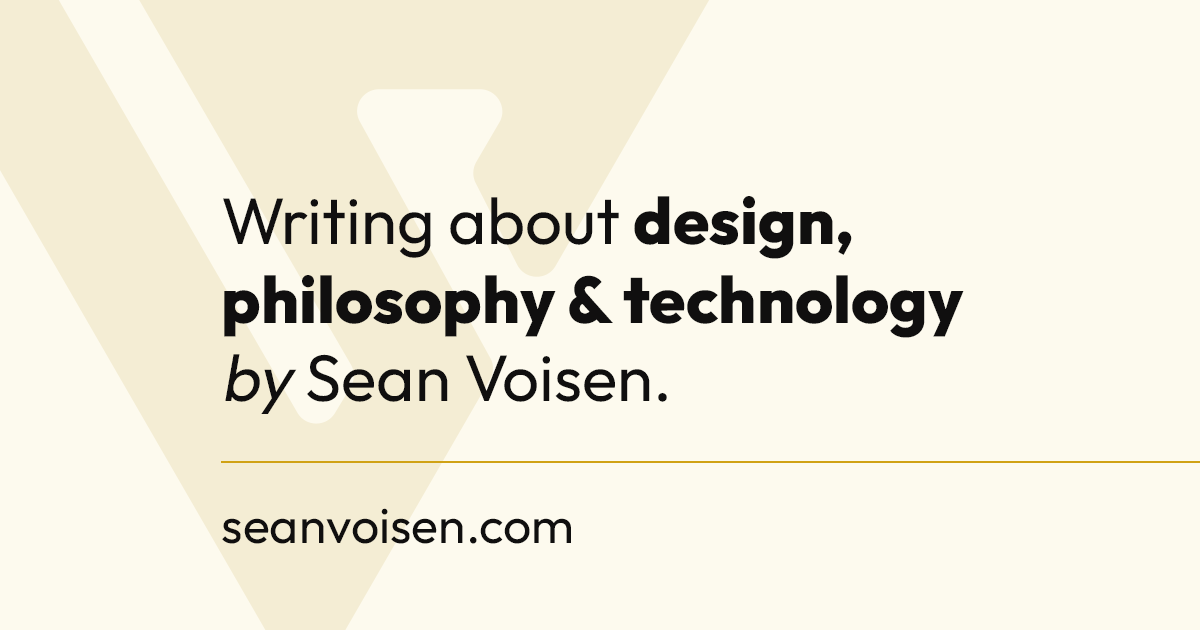
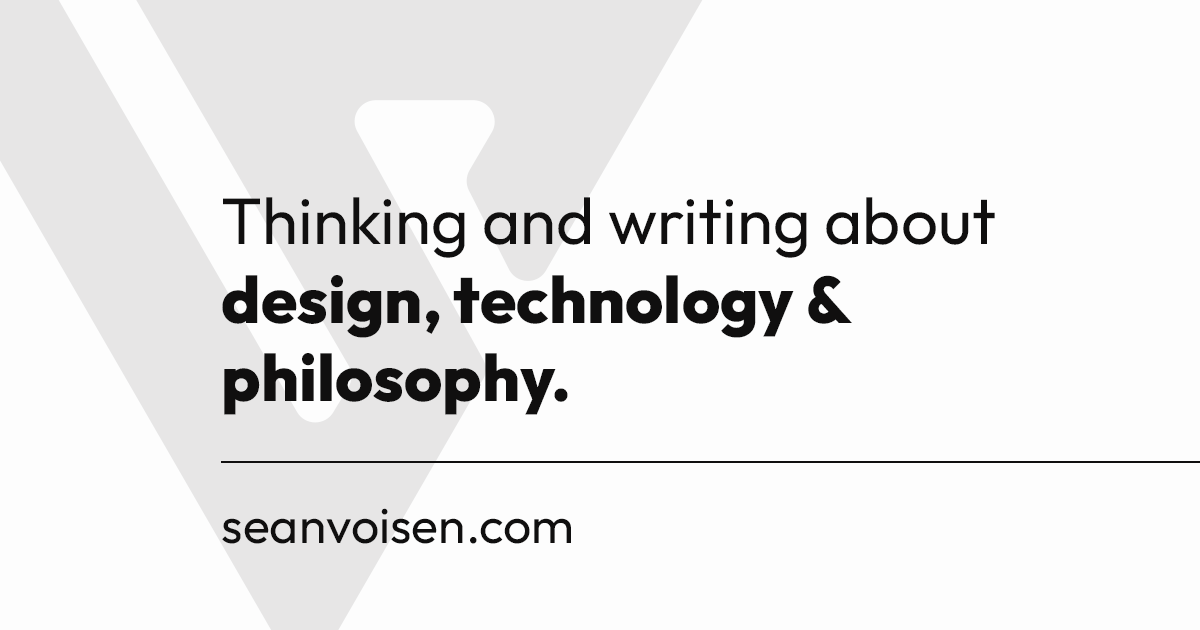
content: update site description and OG image

diff --git a/src/_data/site.js b/src/_data/site.js
@@ -1,6 +1,6 @@
 export const base = process.env.URL || "https://seanvoisen.com";
 export const title = "Sean Voisen";
-export const description = "Work and writing about design, philosophy, and technology.";
+export const description = "Thinking and writing about design, technology and philosophy.";
 export const author = {
   name: "Sean Voisen"
 };
